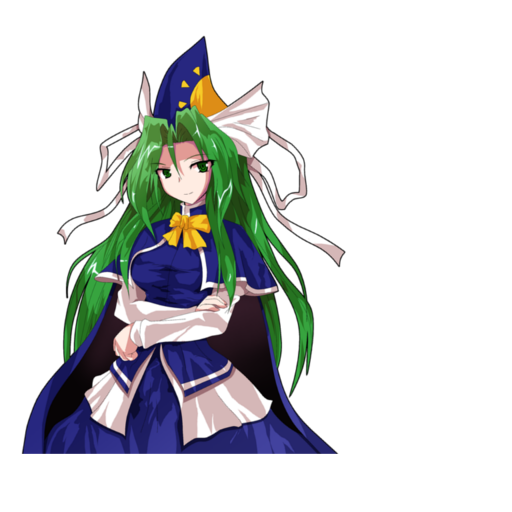
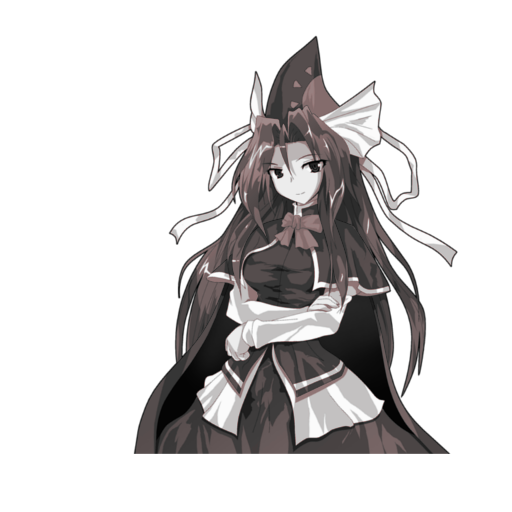
Minor edit for TH08

diff --git a/mima/files.js b/mima/files.js
@@ -1003,8 +1003,8 @@
 	"th08/data/title/select01.png": 1420646140,
 	"th08/data/title/sl_pl00a.png": 2195413325,
 	"th08/data/title/sl_pl00h.png": 1211483233,
-	"th08/data/title/sl_pl01a.png": 4034341428,
-	"th08/data/title/sl_pl01h.png": 2169981824,
+	"th08/data/title/sl_pl01a.png": 3973044286,
+	"th08/data/title/sl_pl01h.png": 4123507283,
 	"th08/data/title/sl_pl02a.png": 139189929,
 	"th08/data/title/sl_pl02h.png": 1360384031,
 	"th08/data/title/sl_pl03a.png": 2918747371,
